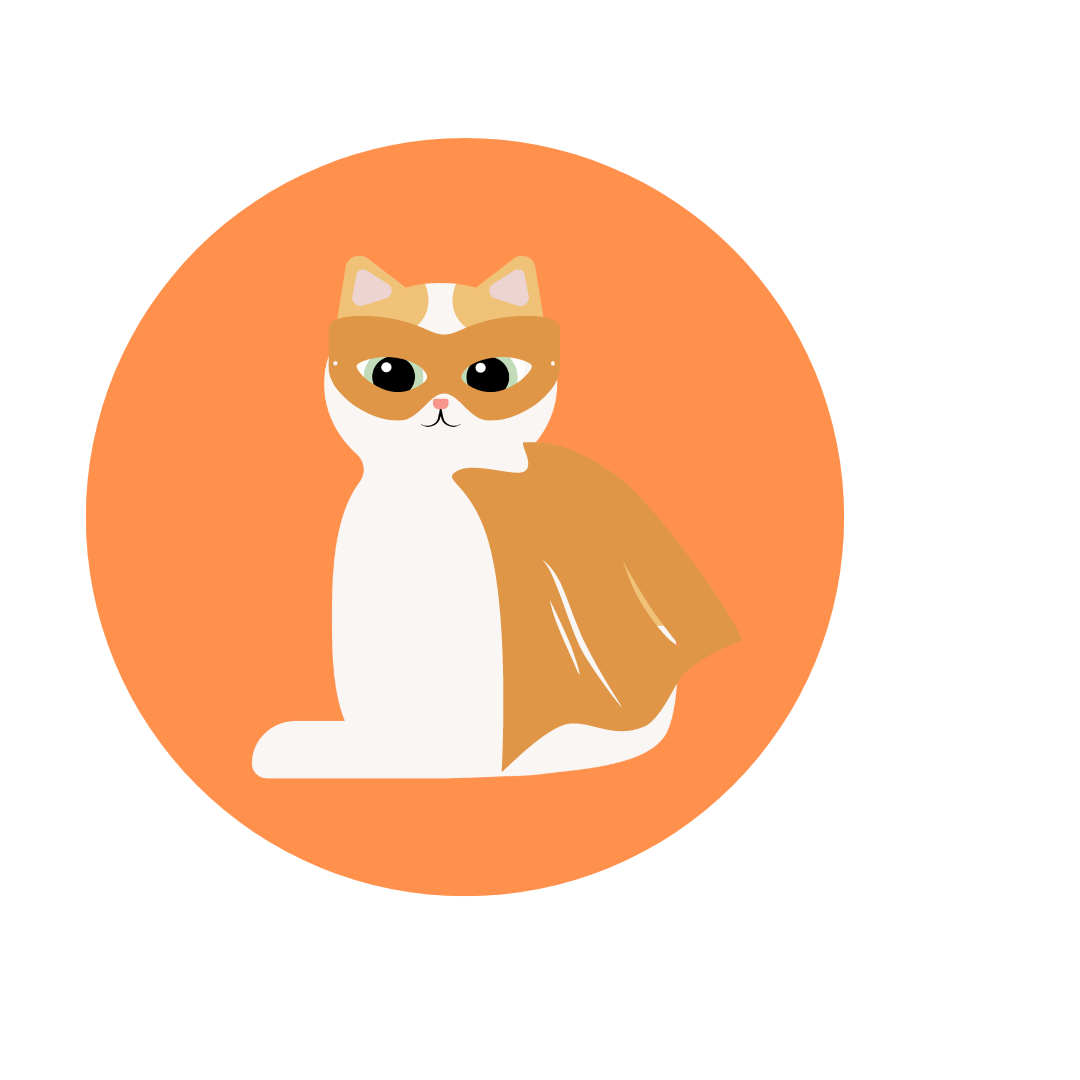
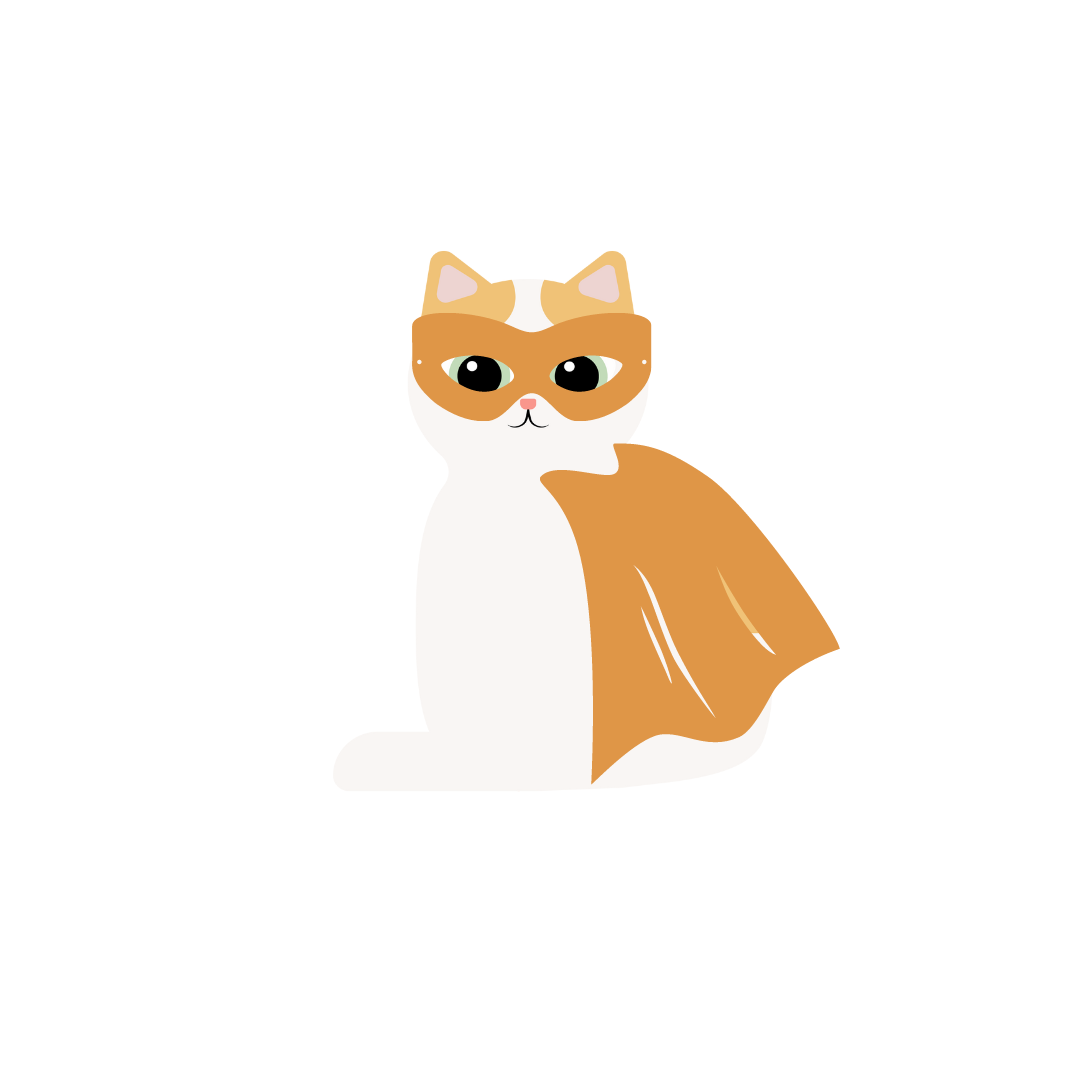
completed error page

diff --git a/src/styles/_error.scss b/src/styles/_error.scss
@@ -2,125 +2,48 @@
 @use "./mixins" as *;
 
 .error-section {
-    @include flex(column, center, center);
-    text-align: center;
-    margin: 0 auto;
-
-
+  @include flex(row, center, center);
+  background-color: rgba(211, 211, 211, 0.555);
+  width: 100%;
 }
 
-
-
-.oops {
-    animation: shake 2s ease infinite;
-    transform-origin: 100% 50%;
-  }
-  
-  @keyframes shake {
-    0% { transform: translate(1px, 1px) rotate(0deg); }
-    10% { transform: translate(-1px, -2px) rotate(-1deg); }
-    20% { transform: translate(-3px, 0px) rotate(1deg); }
-    30% { transform: translate(3px, 2px) rotate(0deg); }
-    40% { transform: translate(1px, -1px) rotate(1deg); }
-    50% { transform: translate(-1px, 2px) rotate(-1deg); }
-    60% { transform: translate(-3px, 1px) rotate(0deg); }
-    70% { transform: translate(3px, 1px) rotate(-1deg); }
-    80% { transform: translate(-1px, -1px) rotate(1deg); }
-    90% { transform: translate(1px, 2px) rotate(0deg); }
-    100% { transform: translate(1px, -2px) rotate(-1deg); }
-  } 
-
-  .oops:hover {
-    animation: none;
+.error-container {
+  @include flex(column, center, center);
+    h2 {
+      @include font(10vmin, 12vmin, $primary-font-colour, none, 800);
   }
 
-
-// quake art left
-
-
-  .quake-art {
-    @include flex(row, center, center);
-    margin-top: 300px;
-}
-
-.quake-left {
-    display: flex;
-    position: relative;
-    left:40px;
-}
-
-  .box-left {
-    width: 500px;
-    height: 200px;
-    background-color: #555;
-    border-top-left-radius: 40px;
+  p {
+    @include font(4vmin, 5vmin, $primary-font-colour, none, 400);
   }
-
-  .triangle-left {
-    display: flex;
-    flex-direction: column;
-    justify-content: center;
-
-  }
-
-  .left-1 {
-    width: 0;
-    height: 0;
-    border-left: 100px solid #555;
-    border-bottom: 50px solid transparent;
-    padding-left: 40px;
-}
-.left-2 {
-    width: 0;
-    height: 0;
-    border-top: 50px solid transparent;
-    border-left: 100px solid #555;
-    border-bottom: 50px solid transparent;
-    padding-left: 40px;
-}
-.left-3 {
-    width: 0;
-    height: 0;
-    border-top: 50px solid transparent;
-    border-left: 100px solid #555;
-    padding-left: 40px;
 }
 
-// quake art right
-
-.quake-right {
-    display: flex;
-    position: relative;
-    right:40px;
+.error-art {
+  position: relative;
+  margin-top: 15vmin;
 }
 
-
-  .triangle-right {
-    display: flex;
-    flex-direction: column;
+//foreground image
+.quake-img{
+  position: relative;
+  z-index: 2;
+  width: 60vmin;
+  height: 40vmin;
 }
 
-
-.right-1 {
-    width: 0;
-    height: 0;
-    border-top: 50px solid transparent;
-    border-right: 100px solid #555;
-    border-bottom: 50px solid transparent;
-
+//background image
+.float-img{ 
+  position: absolute;
+  z-index: 1;
+  top: 0;
+  left: 6.5vmin;
+  transform: translateY(-2%);
+  animation: floater ease-in-out 5s infinite;
+  width: 45vmin;
+  height: 45vmin;
 }
 
-.right-2 {
-        width: 0;
-        height: 0;
-        border-top: 50px solid transparent;
-        border-right: 100px solid #555;
-        border-bottom: 50px solid transparent;
+@keyframes floater {
+  40%{transform: translateY(-50%);transition: ease 4s;}
+  0%{transform: translateY(-2%);transition: ease 0.5s;}
 }
-
-.box-right {
-    width: 500px;
-    height: 200px;
-    background-color: #555;
-    border-top-right-radius: 40px;
-  }

diff --git a/src/components/Error.js b/src/components/Error.js
@@ -1,37 +1,18 @@
+import rich from "../assets/rich-mortal.png";
+import quake from "../assets/quake.png";
+
 const Error = () => {
     return (
-
         <section className="error-section">
-
-
-            <div className="message">
-                <p className="oops">Oops!</p> 
-                <p>Something Went Wrong. Please try again</p>
-            </div>
-
-            <div className="quake-art">
-
-                <div className="quake-left">
-                    <span className="box-left"/>
-                        <div className="triangle-left">
-                            <span className="left-1"/>
-                            <span className="left-2"/>
-                            <span className="left-3"/>
-                        </div>
-                </div>
-
-                <div className="quake-right">
-                   <div className="triangle-right">
-                        <span className="right-1"/>
-                        <span className="right-2"/>
+            <div className="error-container">
+                <h2>OOPS!</h2>
+                <p>Something went wrong on our end.</p>
+                <p>Please try again soon.</p>
+                    <div className="error-art">
+                        <img src={quake} className="quake-img" alt="earthquake"/> 
+                        <img src={rich} className="float-img" alt="floating superhero"/>
                     </div>
-                    <span className="box-right"/>
-                </div>    
-
-
-            </div>
-
-
+            </div>        
         </section>
     )
 }

diff --git a/src/components/Main.js b/src/components/Main.js
@@ -24,7 +24,7 @@ const Main = ({ displaySidebar, displayLegend }) => {
         axios({
             url: "https://earthquake.usgs.gov/fdsnws/event/1/query",
             params: {
-                format: "geojso",
+                format: "geojson",
                 starttime: startTime,
                 minmagnitude: "2.5",
             },

diff --git a/src/components/Header.js b/src/components/Header.js
@@ -2,6 +2,8 @@ import logo from "../assets/ecs-logo.png";
 import list from "../assets/list-icon.png";
 
 const Header = ({ toggleSidebar, toggleLegend }) => {
+
+    
     return (
         <header>
             <div className="logo">
